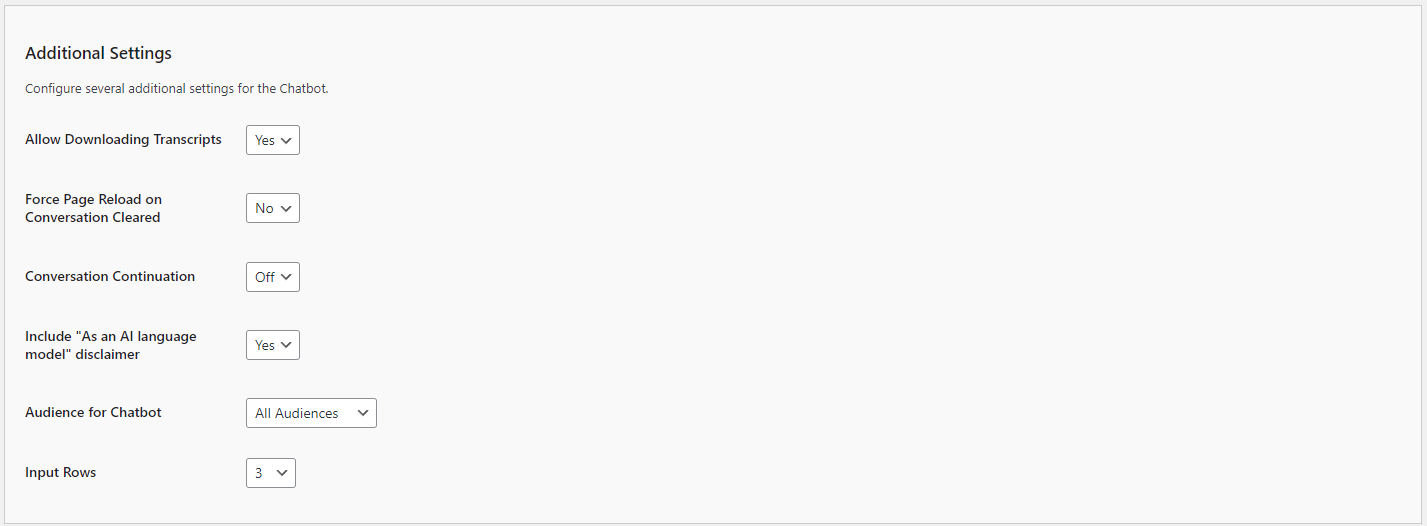
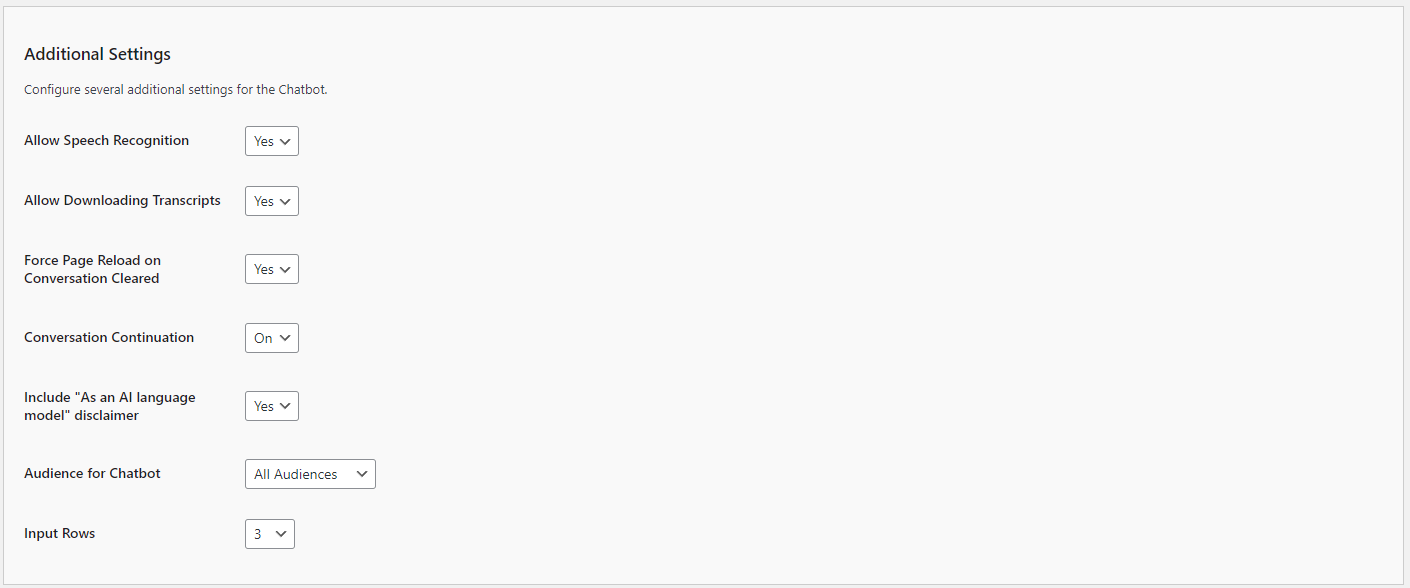
V2.1.5.1 Integration of speech recognition

diff --git a/includes/settings/chatbot-settings-setup.php b/includes/settings/chatbot-settings-setup.php
@@ -300,7 +300,7 @@ function chatbot_chatgpt_settings_setup_init() {
     // Speech Recognition - Ver 2.1.5.1
     add_settings_field(
         'chatbot_chatgpt_speech_recognition',
-        'Speech Recognition',
+        'Allow Speech Recognition',
         'chatbot_chatgpt_speech_recognition_callback',
         'chatbot_chatgpt_additional_setup_settings',
         'chatbot_chatgpt_additional_setup_section'

diff --git a/documentation/settings/settings.md b/documentation/settings/settings.md
@@ -40,32 +40,38 @@ The General Settings allow you to customize the basic behavior and appearance of
 
 ![Additional Settings](additional-settings.png)
 
-1. **Allow Downloading Transcripts**:
+1. **Allow Speech Recognition**:
+   - **Description**: This toggle allows you to allow chatbot users to speak to the chatbot if support by their browser.
+   - **Options**: `Yes` or `No`.
+   - **Selection**: Choose `Yes` if you want to allow a users to speak to the chatbot.
+   - **Note**: Speech recognition is only supported in modern browsers such as Google Chrome, Microsoft Edge, and Safari. It may not function correctly in other browsers, including older versions of Internet Explorer or Firefox.
+
+2. **Allow Downloading Transcripts**:
    - **Description**: This toggle allows you to allow chatbot users to download transcripts.
    - **Options**: `Yes` or `No`.
    - **Selection**: Choose `Yes` if you want to allow a transcript download.
 
-2. **Include "As an AI language model" disclaimer**:
+3. **Include "As an AI language model" disclaimer**:
    - **Description**: This toggle allows you to include a disclaimer about the AI nature of the chatbot.
    - **Options**: `Yes` or `No`.
    - **Selection**: Choose `Yes` if you want to display this disclaimer, which can help manage user expectations.
 
-3. **Force Page Reload on Conversation Clear**:
+4. **Force Page Reload on Conversation Clear**:
    - **Description**: This toggle allows you to force the webpage to reload when the chatbot conversation is cleared.
    - **Options**: `Yes` or `No`.
    - **Selection**: Choose `Yes` if you want to force a page reload.
 
-4. **Conversation Continuation**:
+5. **Conversation Continuation**:
    - **Description**: This toggle allows you to enable conversation continuation when returning to a page with a earlier chat.
    - **Options**: `On` or `Off`.
    - **Selection**: Choose `On` if you want to enable conversation continuation.   
 
-5. **Audience for Chatbot**:
+6. **Audience for Chatbot**:
    - **Description**: This setting allows you to specify the intended audience for the chatbot.
    - **Options**: `All`, `Visitors`, `Logged-in` etc.
    - **Selection**: Choose the appropriate audience based on the content and purpose of your chatbot.
 
-6. **Input Rows**:
+7. **Input Rows**:
    - **Description**: This setting determines the number of rows in the chatbot input field.
    - **Options**: Set a numeric value.
    - **Selection**: Choose a value like `5` to allow more space for user input, or adjust based on your layout preferences.

diff --git a/documentation/overview.md b/documentation/overview.md
@@ -10,7 +10,7 @@ The **Kognetiks Chatbot for WordPress** is powered by OpenAI, via it's API and M
 
 ## What's new in Version 2.1.5
 
-* **TBD**: TBD
+* **Speech Recognition Integration**: Added support for speech recognition to enhance user interaction with the chatbot. Users can now speak to the chatbot, which will transcribe the speech into text for processing.
 
 ## What's new in Version 2.1.4
 

diff --git a/README.md b/README.md
@@ -6,7 +6,7 @@ The **Kognetiks Chatbot for WordPress** plugin project is centered around revolu
 
 ## What's new in Version 2.1.5
 
-* **TBD**: TBD
+* **Speech Recognition Integration**: Added support for speech recognition to enhance user interaction with the chatbot. Users can now speak to the chatbot, which will transcribe the speech into text for processing.
 
 ## What's new in Version 2.1.4
 
